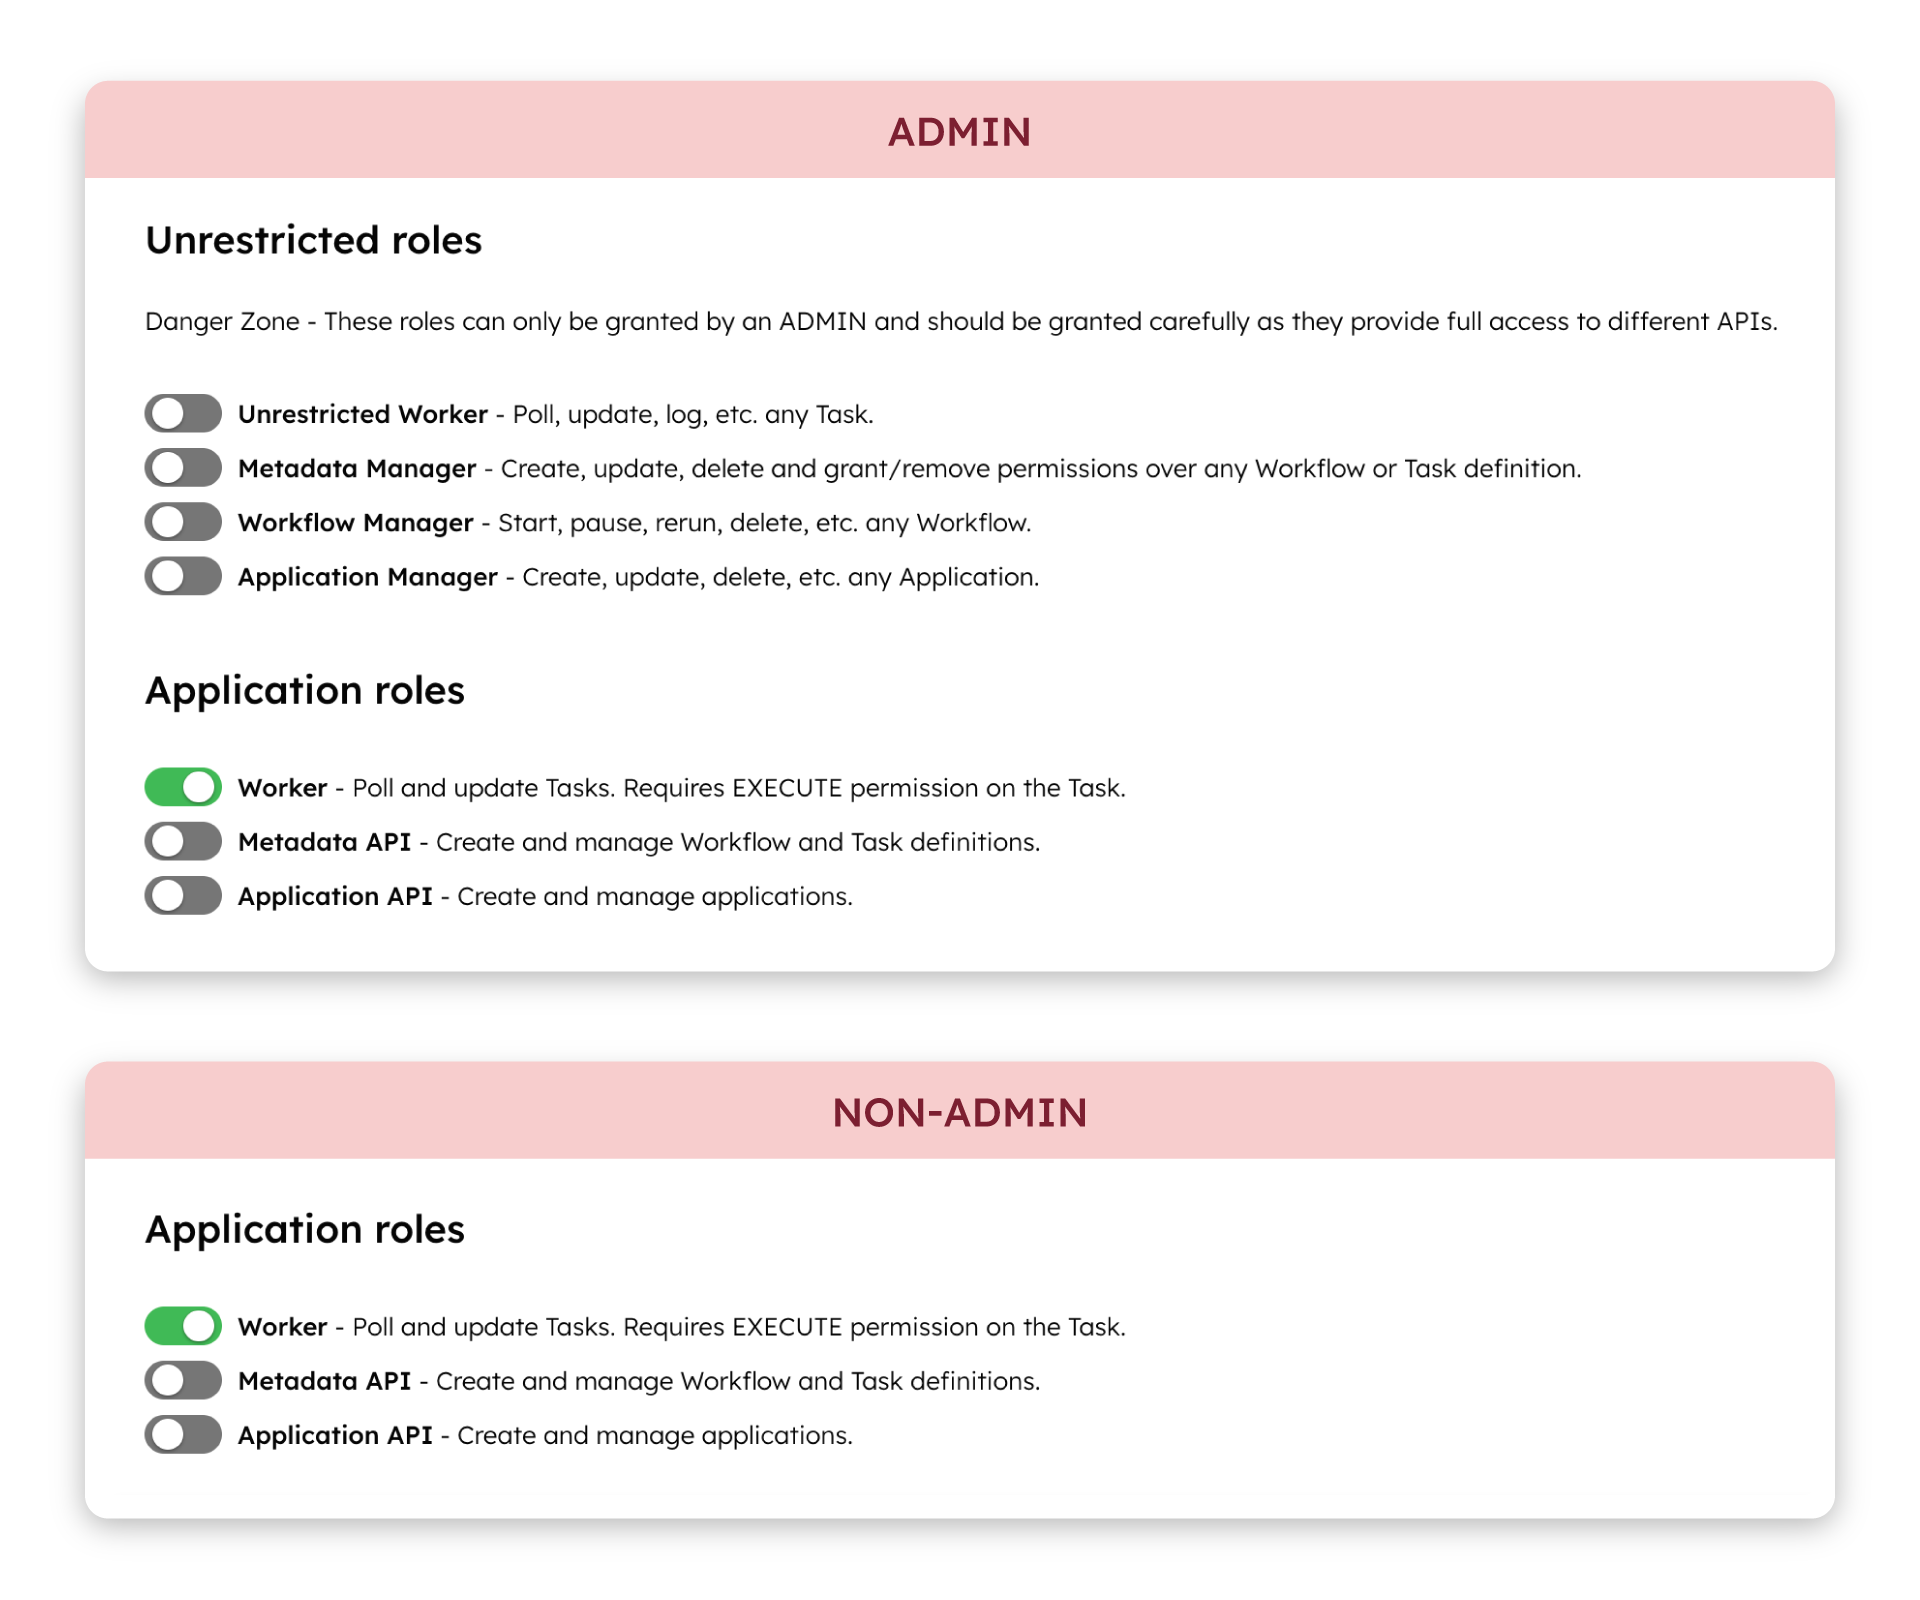
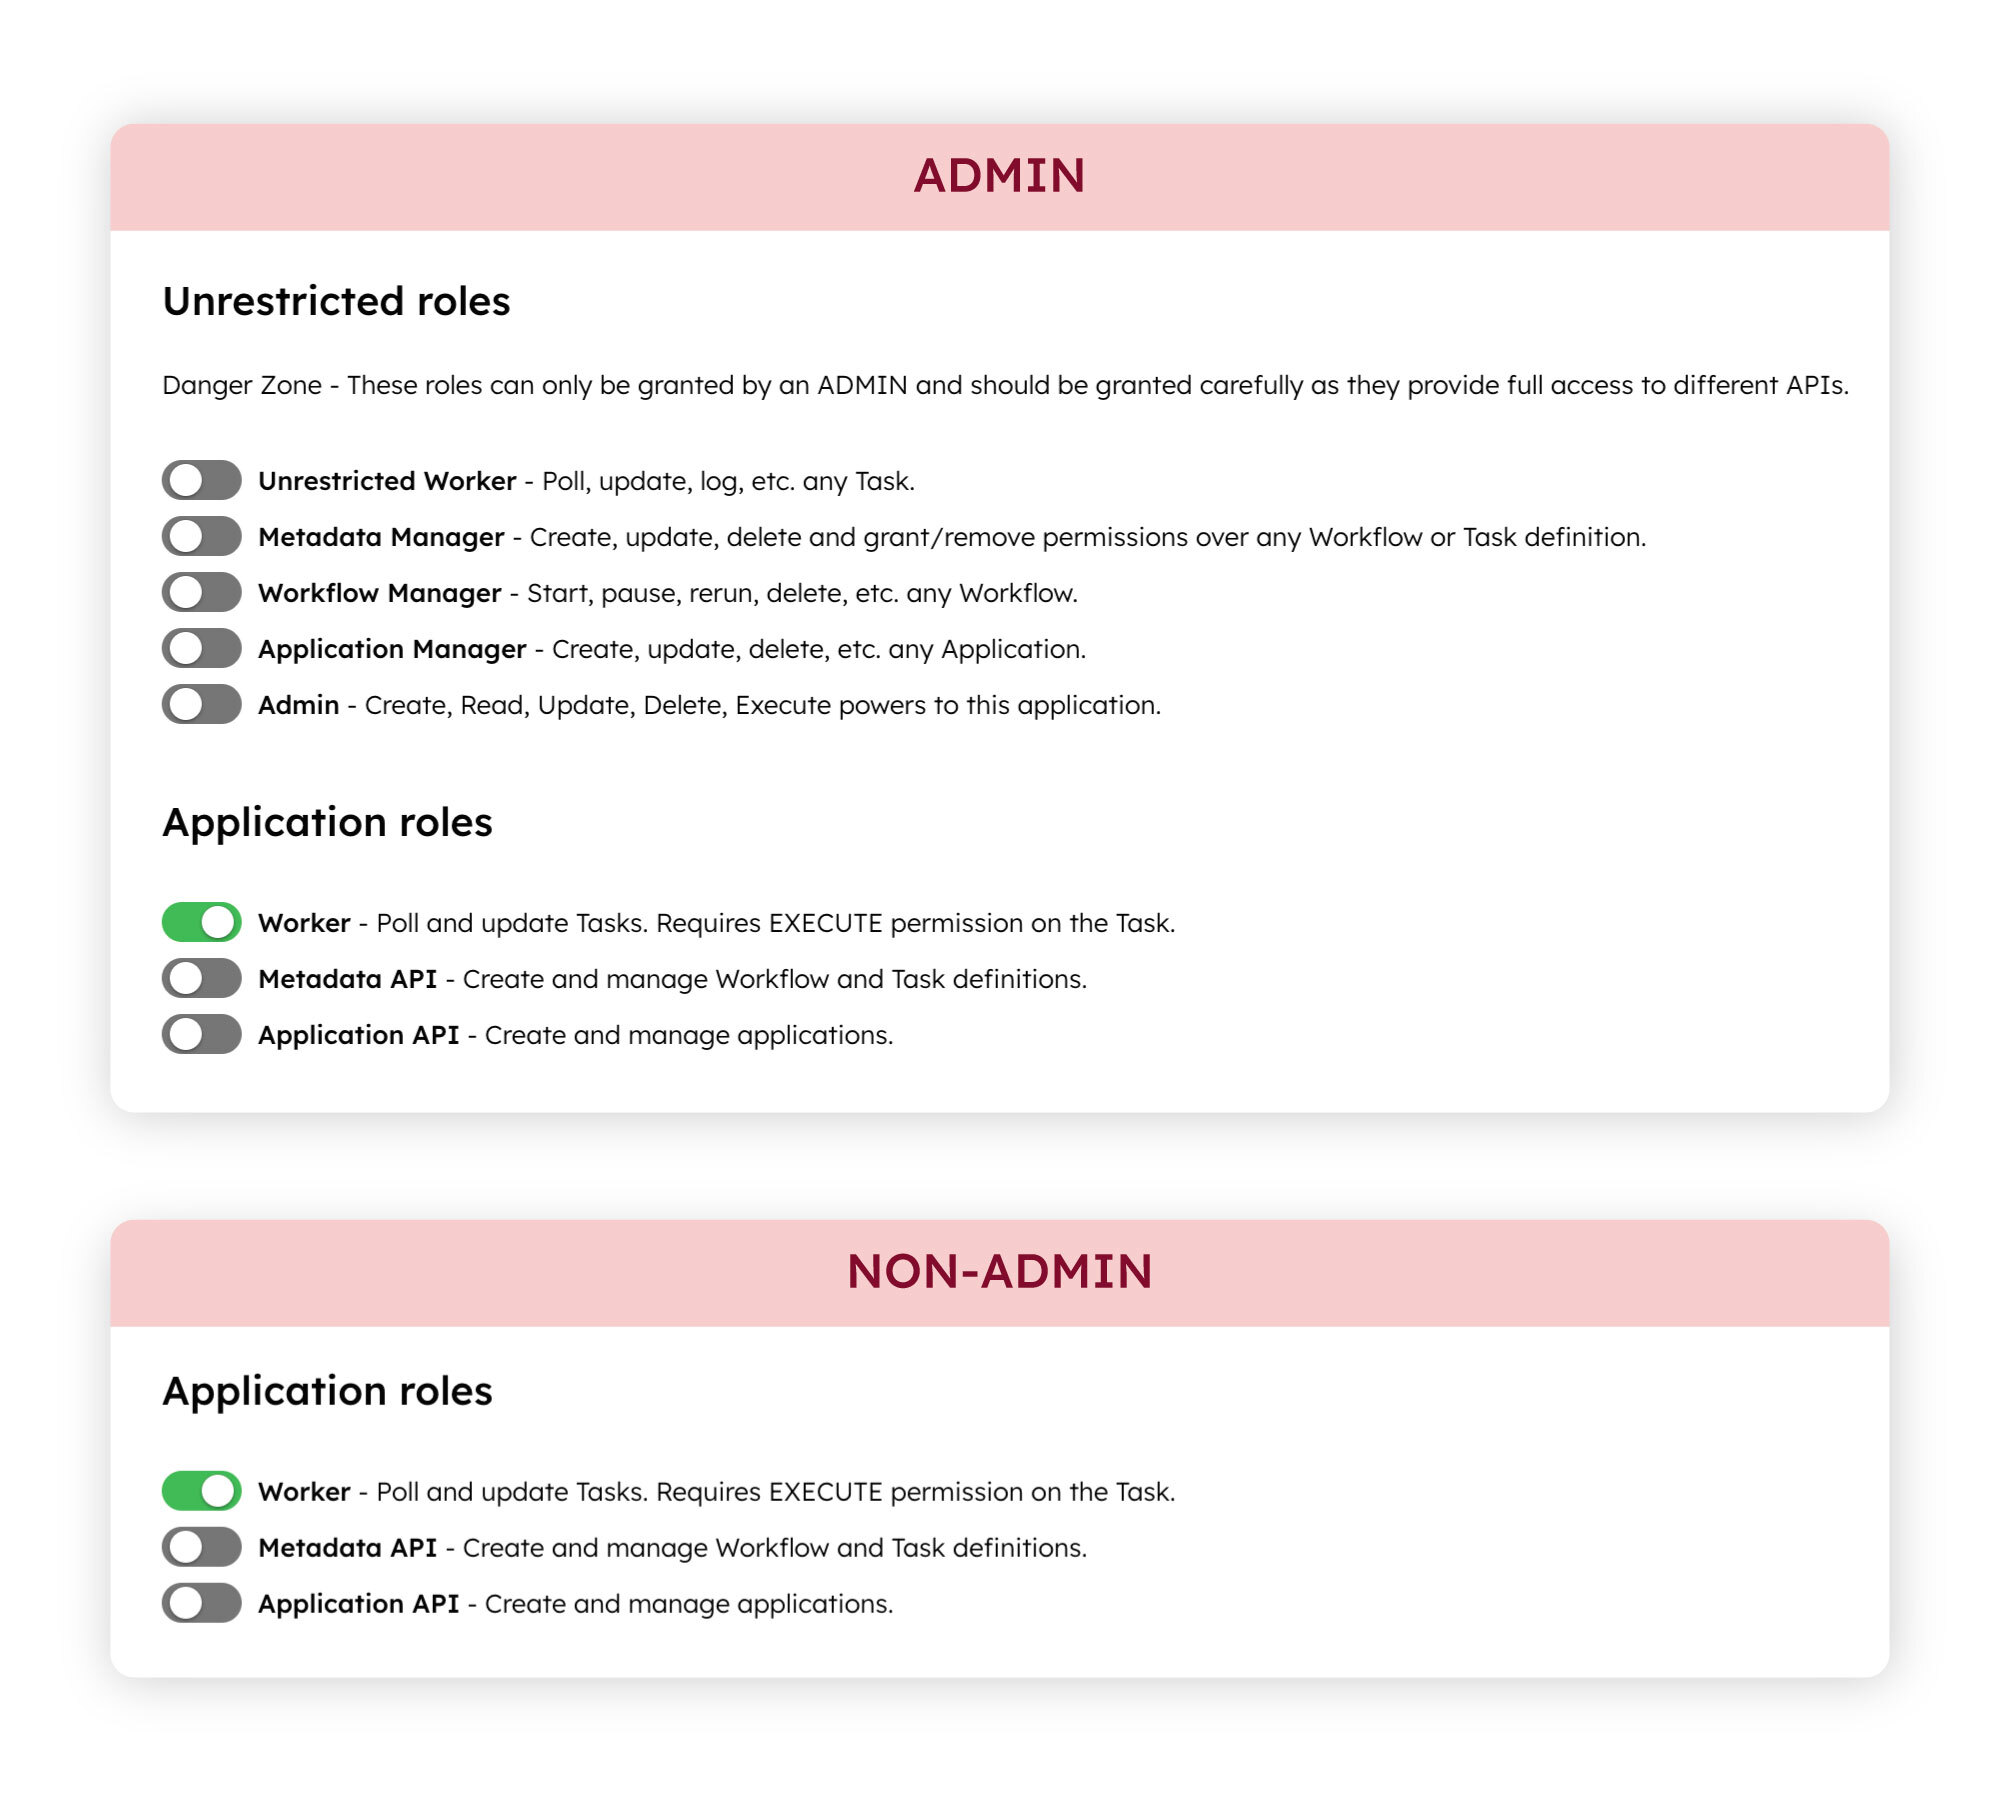
Update

diff --git a/docs/access-control-and-security/applications.md b/docs/access-control-and-security/applications.md
@@ -4,7 +4,7 @@ import TabItem from '@theme/TabItem';
 
 # Managing Applications
 
-An application represents an application that interacts with a Conductor server via APIs or SDKs. The application layer in Conductor provides application-based access to resources in your cluster. 
+An application represents an application that interacts with a Conductor cluster via APIs or SDKs. The application layer in Conductor provides application-based access to resources in your cluster. 
 
 Each application can also have one or more access key/secret pairs, which are used to grant access to Conductor SDK and API. Learn more about authentication in [Authentication and Access Keys](/sdks/authentication).
 
@@ -18,7 +18,7 @@ Application roles grant additional access on top of this default behavior and sh
 <Tabs>
 <TabItem value="application roles" label="Application Roles">
 
-Application roles an be added by any user with access to applications. General application roles include:
+Application roles can be added by any user with access to applications. General application roles include:
 * **Worker**—Poll and execute tasks that it has Execute permissions for.
     This role should be granted to a task worker application that is responsible for polling and executing a task.
 * **Metadata API**—Create and manage workflow and task metadata.
@@ -35,6 +35,7 @@ Unrestricted roles can only be added by an Admin. Unrestricted roles include:
 * **Metadata Manager**—Create, update, delete, and grant permissions to any workflow or task definition in the cluster.
 * **Workflow Manager**—Manage the lifecycle of workflows within the system. Start, pause, resume, rerun, and delete any workflow execution.
 * **Application Manager**—Manage applications in the cluster, such as creating, modifying, and deleting applications.
+* **Admin**—Create, read, modify, delete, and execute this particular application.
 
 </TabItem>
 </Tabs>
